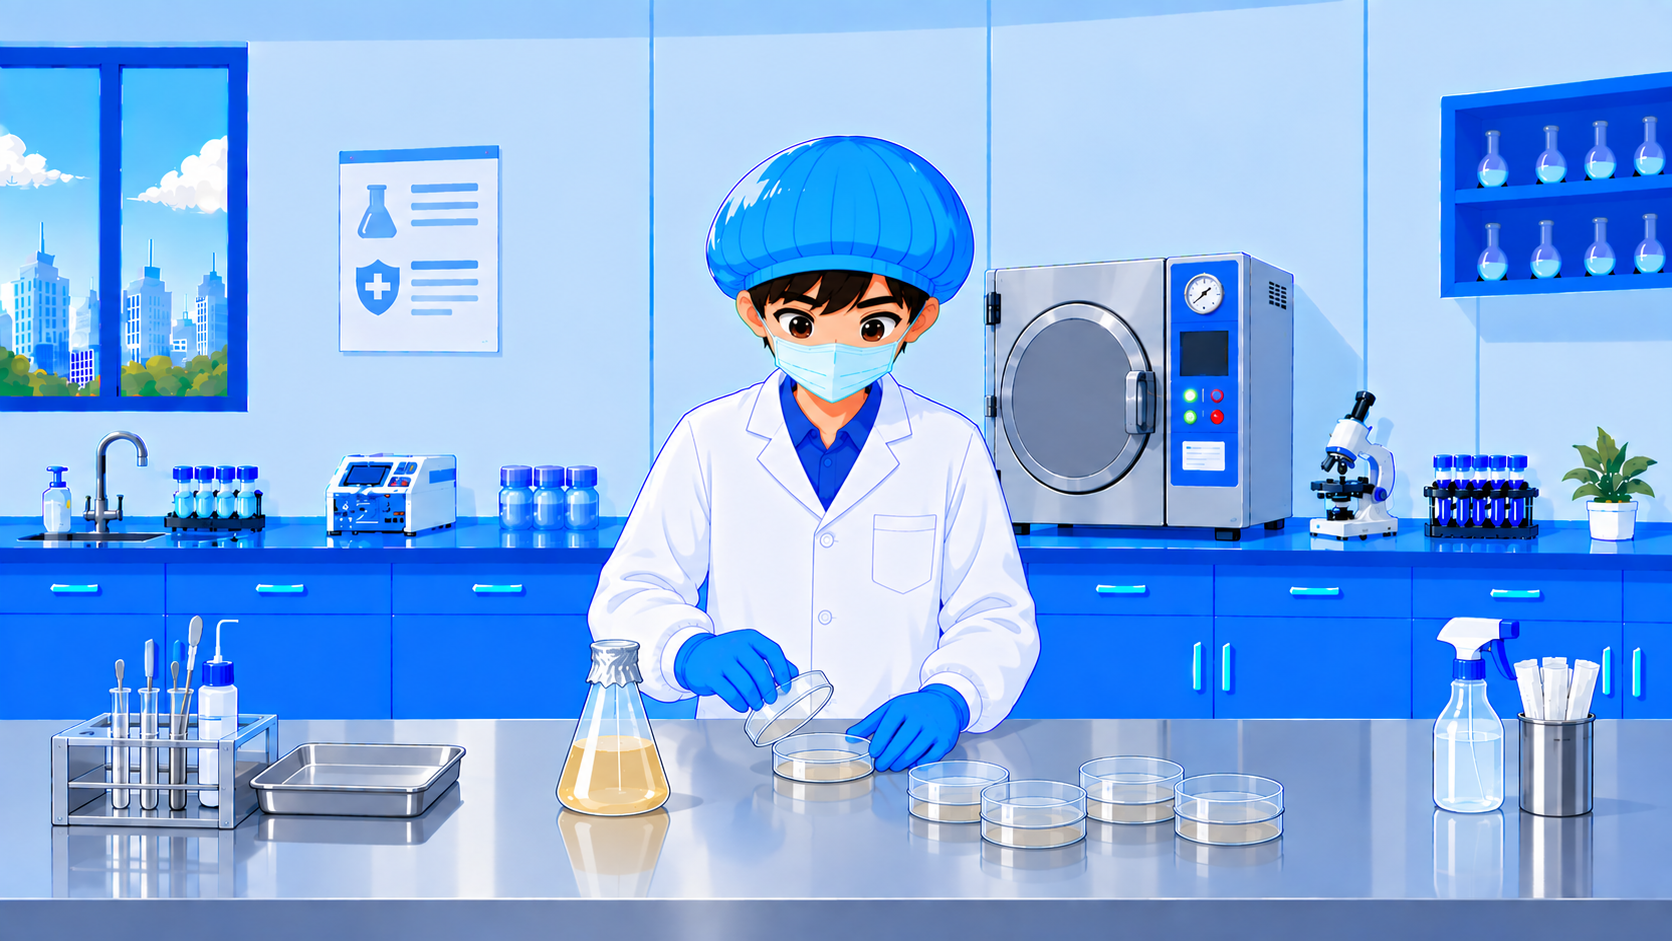
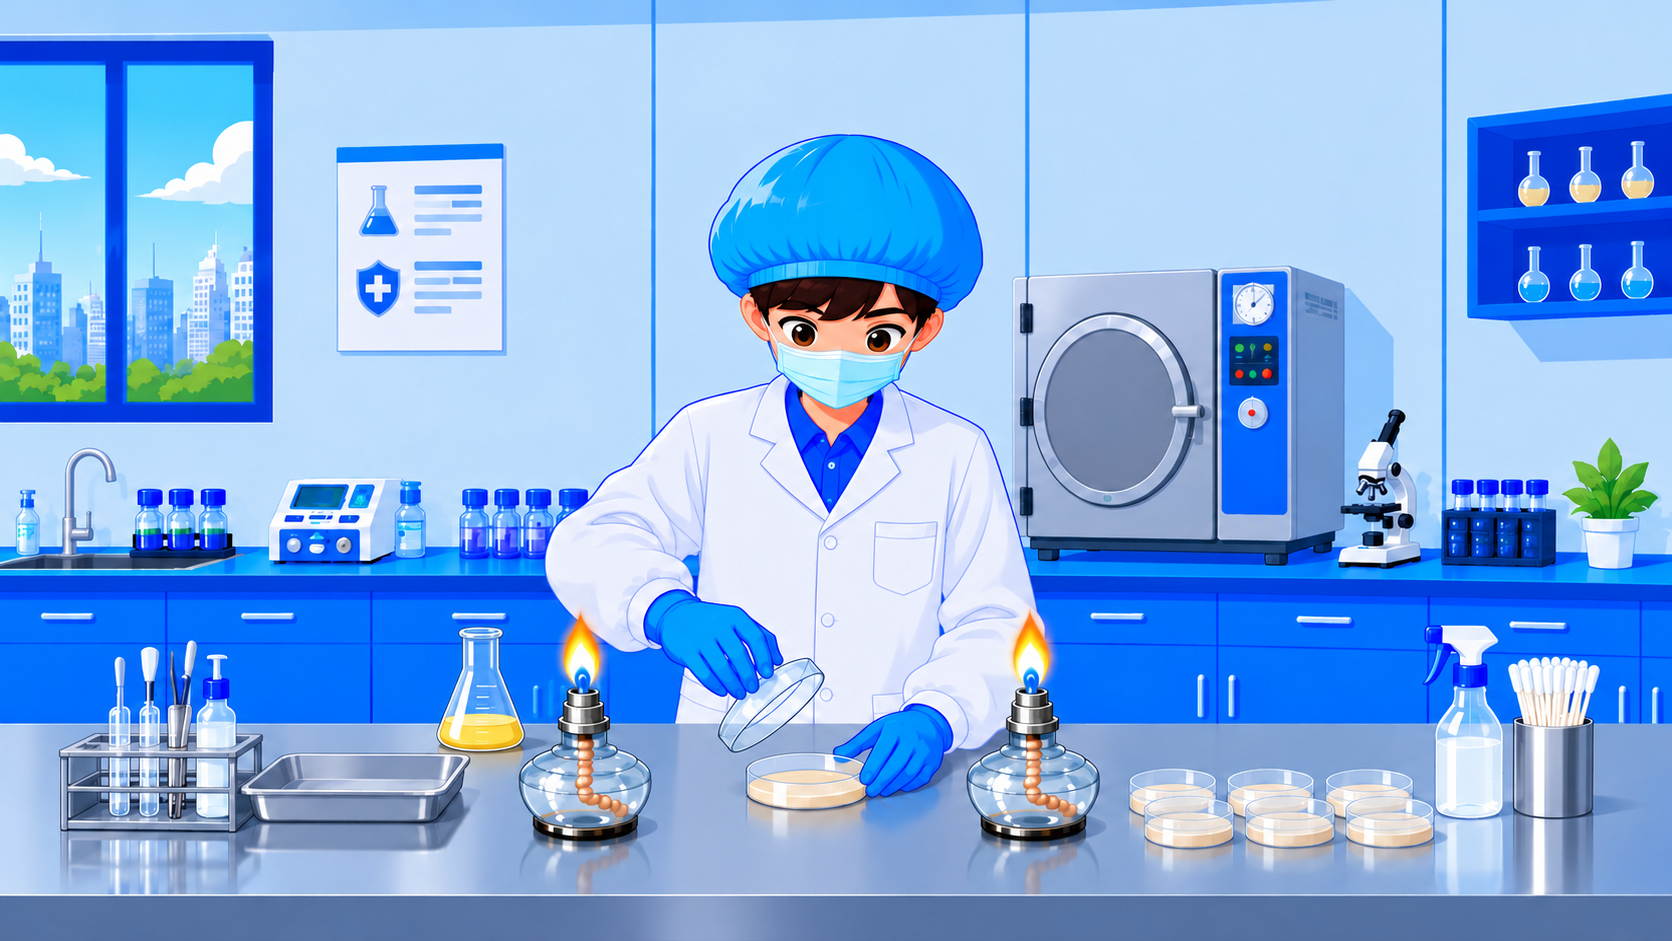
Align media pouring hotspots with updated backgrounds

diff --git a/lab/src/data/stages/kulturMikroba.ts b/lab/src/data/stages/kulturMikroba.ts
@@ -17,10 +17,10 @@ import bgAutoklafLoadedUrl from '../../../assets/images/02_scenes/04_02_pembuata
 import bgAutoklafDoneUrl from '../../../assets/images/02_scenes/04_02_pembuatan_kultur_mikroba/step_5/backgrounds/3.png';
 import autoklafPanelUrl from '../../../assets/images/02_scenes/04_02_pembuatan_kultur_mikroba/step_5/new_autoclave_panel.png';
 import mulaiProsesBtnUrl from '../../../assets/images/02_scenes/04_02_pembuatan_kultur_mikroba/step_5/mulai_proses_btn.png';
-import bgPetriIdleUrl from '../../../assets/images/02_scenes/04_02_pembuatan_kultur_mikroba/step_6/backgrounds/1.png';
-import bgPetriStartedUrl from '../../../assets/images/02_scenes/04_02_pembuatan_kultur_mikroba/step_6/backgrounds/2.png';
-import bgPetriPouringUrl from '../../../assets/images/02_scenes/04_02_pembuatan_kultur_mikroba/step_6/backgrounds/3.png';
-import bgPetriDoneUrl from '../../../assets/images/02_scenes/04_02_pembuatan_kultur_mikroba/step_6/backgrounds/4.png';
+import bgPetriIdleUrl from '../../../assets/images/02_scenes/04_02_pembuatan_kultur_mikroba/step_6/backgrounds/1.png?url';
+import bgPetriStartedUrl from '../../../assets/images/02_scenes/04_02_pembuatan_kultur_mikroba/step_6/backgrounds/2.png?url';
+import bgPetriPouringUrl from '../../../assets/images/02_scenes/04_02_pembuatan_kultur_mikroba/step_6/backgrounds/3.png?url';
+import bgPetriDoneUrl from '../../../assets/images/02_scenes/04_02_pembuatan_kultur_mikroba/step_6/backgrounds/4.png?url';
 
 // Data for Stage 2 "Pembuatan Media Kultur Mikroba" (Figma "Sterilab-APHP"
 // frames "5.1 - A/B/C", "5.2 - A/B/C/D", "5.3 - A/B/C", "5.4 - A/B/C/D",
@@ -517,34 +517,29 @@ export const MENSTERILISASI_MEDIA_STEP: SterilizeStep = {
   successBody: 'Anda siap melanjutkan ke langkah berikutnya.',
 };
 
-// Hotspots measured off Figma's own highlight boxes: node 305:612 on the
-// idle plate (the Erlenmeyer and closed dishes, left 997, top 839, 524x165),
-// 305:614 on the started plate (the Erlenmeyer, now held over the first open
-// dish, left 599, top 702, 209x269) and 305:615 on the pouring plate (the
-// whole pour - Erlenmeyer and first dish together, left 655, top 588,
-// 430x371).
+// Hotspots follow the flask and receiving dish in the revised 16:9 plates.
 const MENUANGKAN_FRAMES: [AssembleFrame, AssembleFrame, AssembleFrame, AssembleFrame] = [
   {
     src: bgPetriIdleUrl,
-    alt: 'Analis berdiri di meja kerja dengan labu Erlenmeyer berisi media steril di samping empat cawan Petri kosong yang masih tertutup',
-    hotspot: { x: 997, y: 839, width: 524, height: 165 },
+    alt: 'Analis berdiri di meja kerja dengan labu Erlenmeyer berisi media steril, cawan Petri, dan dua lampu spirtus menyala',
+    hotspot: { x: 790, y: 733, width: 145, height: 227 },
     hotspotAccessibleName: 'Erlenmeyer, klik untuk mulai menuangkan media ke cawan Petri',
   },
   {
     src: bgPetriStartedUrl,
-    alt: 'Analis memegang tutup cawan Petri sambil mulai menuangkan media dari labu Erlenmeyer ke cawan Petri pertama yang terbuka',
-    hotspot: { x: 599, y: 702, width: 209, height: 269 },
+    alt: 'Analis memegang tutup cawan Petri yang terbuka dengan labu Erlenmeyer di atas meja dan dua lampu spirtus menyala',
+    hotspot: { x: 501, y: 740, width: 102, height: 125 },
     hotspotAccessibleName: 'Erlenmeyer, klik untuk melanjutkan menuangkan media ke cawan Petri',
   },
   {
     src: bgPetriPouringUrl,
-    alt: 'Analis menuangkan media dari labu Erlenmeyer ke cawan Petri pertama, dengan keempat cawan Petri berisi media steril',
-    hotspot: { x: 655, y: 588, width: 430, height: 371 },
+    alt: 'Analis menuangkan media dari labu Erlenmeyer ke cawan Petri terbuka di antara dua lampu spirtus menyala',
+    hotspot: { x: 850, y: 860, width: 160, height: 75 },
     hotspotAccessibleName: 'Cawan Petri, klik untuk menuntaskan penuangan media',
   },
   {
     src: bgPetriDoneUrl,
-    alt: 'Analis mengacungkan jempol di meja kerja dengan empat cawan Petri berisi media steril, dengan catatan pembuatan media berhasil',
+    alt: 'Analis mengacungkan jempol di meja kerja dengan cawan Petri berisi media steril dan dua lampu spirtus menyala',
   },
 ];
 

diff --git a/lab/tests/kultur-mikroba.spec.ts b/lab/tests/kultur-mikroba.spec.ts
@@ -55,3 +55,57 @@ test('Langkah 5 requires 121°C, 15 psi, and 15–20 minutes', async ({ page }) 
   await expect(page.getByText('16 min', { exact: true })).toBeVisible();
   await expect(start).toBeEnabled();
 });
+
+test('Langkah 6 targets the visible objects in each updated background', async ({ page }, testInfo) => {
+  test.setTimeout(90_000);
+  const errors: string[] = [];
+  page.on('pageerror', (error) => errors.push(error.message));
+  await gotoStep5(page);
+  for (let i = 0; i < 6; i += 1) await page.getByRole('button', { name: /Tambah suhu/ }).click();
+  for (let i = 0; i < 5; i += 1) await page.getByRole('button', { name: /Tambah tekanan/ }).click();
+  for (let i = 0; i < 6; i += 1) await page.getByRole('button', { name: /Tambah waktu/ }).click();
+  await page.getByRole('button', { name: /Mulai Proses/ }).click();
+  await page.getByRole('button', { name: 'Lanjut ke langkah berikutnya' }).click();
+  await expect(page.getByText('Langkah 6 / 6', { exact: true })).toBeVisible();
+
+  const frames = [
+    { alt: /Analis berdiri di meja kerja dengan labu Erlenmeyer/, name: /Erlenmeyer, klik untuk mulai/, point: [750, 770], lamps: [[550, 760], [895, 760]] },
+    { alt: /Analis memegang tutup cawan Petri/, name: /Erlenmeyer, klik untuk melanjutkan/, point: [480, 700], lamps: [[580, 760], [1030, 760]] },
+    { alt: /Analis menuangkan media dari labu Erlenmeyer/, name: /Cawan Petri, klik untuk menuntaskan/, point: [805, 780], lamps: [[550, 760], [1030, 760]] },
+  ] as const;
+  for (const [index, frame] of frames.entries()) {
+    const image = page.getByAltText(frame.alt);
+    await expect(image).toBeVisible();
+    await expect(image).toHaveAttribute('src', new RegExp(`step_6/backgrounds/${index + 1}\\.png`));
+    await image.evaluate((element: HTMLImageElement) => element.decode());
+    const bounds = (await image.boundingBox())!;
+    const hotspot = page.getByRole('button', { name: frame.name });
+    const hitbox = (await hotspot.boundingBox())!;
+    const point = (x: number, y: number) => ({ x: bounds.x + bounds.width * x / 1671, y: bounds.y + bounds.height * y / 941 });
+    const target = point(...frame.point);
+    expect(target.x).toBeGreaterThan(hitbox.x);
+    expect(target.x).toBeLessThan(hitbox.x + hitbox.width);
+    expect(target.y).toBeGreaterThan(hitbox.y);
+    expect(target.y).toBeLessThan(hitbox.y + hitbox.height);
+    expect(await page.evaluate(({ x, y }) => document.elementFromPoint(x, y)?.getAttribute('aria-label'), target)).toMatch(frame.name);
+    for (const lamp of frame.lamps) {
+      const position = point(...lamp);
+      await page.mouse.click(position.x, position.y);
+      await expect(image).toBeVisible();
+    }
+    const emptyTable = point(350, 900);
+    await page.mouse.click(emptyTable.x, emptyTable.y);
+    await expect(image).toBeVisible();
+    await page.screenshot({ path: testInfo.outputPath(`state-${index + 1}.png`) });
+    await page.mouse.click(target.x, target.y);
+  }
+  const completedImage = page.getByAltText(/Analis mengacungkan jempol di meja kerja/);
+  await expect(completedImage).toHaveAttribute('src', /step_6\/backgrounds\/4\.png/);
+  await completedImage.evaluate((element: HTMLImageElement) => element.decode());
+  for (const frame of frames) await expect(page.getByRole('button', { name: frame.name })).toHaveCount(0);
+  await expect(page.getByRole('group', { name: 'Pembuatan media berhasil!' })).toBeVisible();
+  await page.screenshot({ path: testInfo.outputPath('state-4-complete.png') });
+  await page.getByRole('button', { name: 'Lanjut ke langkah berikutnya' }).click();
+  await expect(page.getByRole('button', { name: /^Ulangi Misi 2:/ })).toBeVisible();
+  expect(errors).toEqual([]);
+});
